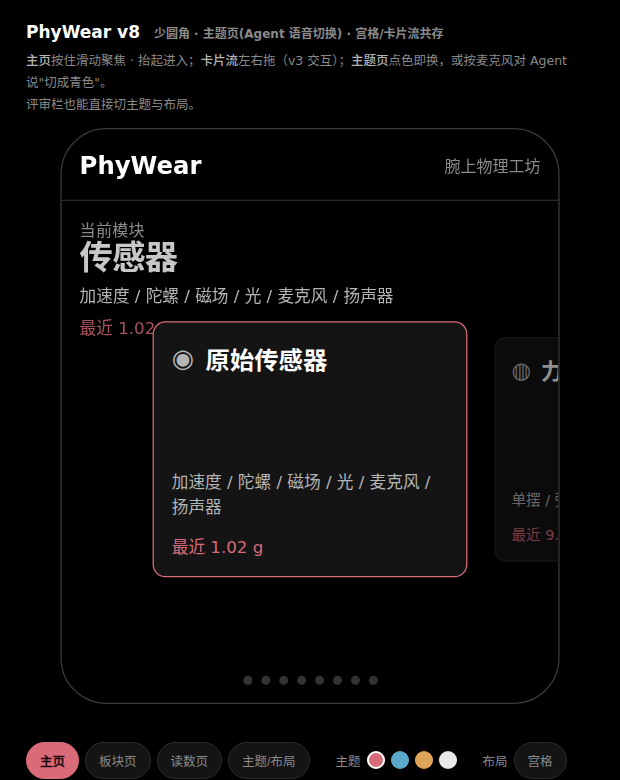
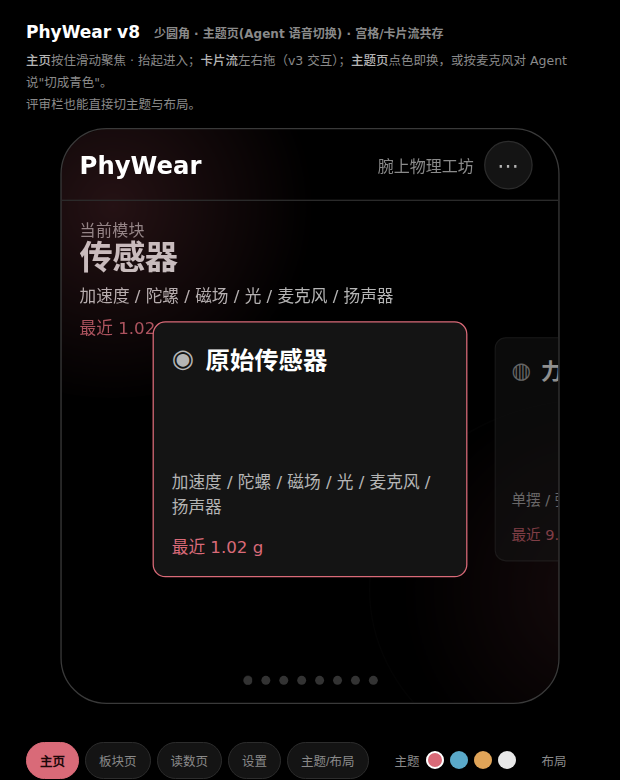
design(v8.3): 搬回 v3 光流体（两团跟随模块漂移的强调色环境光，只动 transform/opacity）+ 记上板落法（预渲染光斑位图）

Changed region(s): [[0.0919, 0.1538, 0.3065, 0.3692], [0.3984, 0.9538, 0.9194, 0.9846], [0.6129, 0.1846, 0.8581, 0.2462]]

diff --git a/docs/design/phywear-v8-prototype.html b/docs/design/phywear-v8-prototype.html
@@ -52,6 +52,16 @@
   .wash{position:absolute;inset:0;background:var(--accent);opacity:0;pointer-events:none;z-index:40;
         transition:opacity .45s ease-out}
 
+  /* 光流体：两团跟随"当前模块位置"漂移的强调色环境光（v3 的效果搬回来）
+     规矩：只用当前主题的单一强调色 · 透明度 ≤ .18 · 只动 transform/opacity · 由交互/数据驱动（不循环） */
+  .glow{position:absolute;inset:0;z-index:1;pointer-events:none;overflow:hidden}
+  .glow i{position:absolute;left:0;top:0;width:360px;height:300px;border-radius:50%;
+          background:radial-gradient(circle at 50% 50%, var(--accent), transparent 68%);
+          will-change:transform,opacity;
+          transition:transform .6s cubic-bezier(.22,1,.36,1),opacity .6s,background .6s}
+  .glow i.a{opacity:.17}
+  .glow i.b{opacity:.10}
+
   .bar{height:56px;display:flex;align-items:center;padding:0 20px 0 14px;   /* 右侧 20px：时间/⋯/版本号左移一点点 */position:relative;z-index:6;
        border-bottom:1px solid var(--line);transition:border-color .6s}
   .bar .id{font-size:19px;font-weight:700}
@@ -177,6 +187,7 @@
   </div>
 
   <div class="watch" id="watch">
+    <div class="glow" id="glow"><i class="a" id="gA"></i><i class="b" id="gB"></i></div>
     <div class="wash" id="wash"></div>
 
     <!-- 主页（宫格 / 卡片流 两套共存） -->
@@ -345,6 +356,7 @@ function applyTheme(t,announce){
   if(w&&D){ w.style.transition='none'; w.style.opacity='.14';
     requestAnimationFrame(()=>{ w.style.transition='opacity .45s ease-out'; w.style.opacity='0'; }); }
   buildThemeList();
+  if(typeof updateGlow==='function') updateGlow(LAYOUT==='grid'?(focus+0.5)/8:Math.min(1,Math.max(0,fOffset/(252*7))));
   if(announce) toast('已切换为 '+THEMES.find(x=>x[0]===t)[1]+' 主题');
 }
 let toastT=null;
@@ -373,8 +385,17 @@ BOARDS.forEach((b,i)=>{
     setTimeout(()=>{ el.style.transition='transform .3s cubic-bezier(.22,1,.36,1),opacity .3s';
       el.style.opacity='1'; el.style.transform='translateY(0) scale(1)'; }, 40+i*32); }
 });
+function updateGlow(t){            /* t: 0..1 表示"当前模块在 8 个里的位置" */
+  const A=$('#gA'), B=$('#gB'); if(!A||!B) return;
+  const ax = -140 + t*430,  ay = -90 + Math.sin(t*Math.PI)*70;
+  const bx =  240 - t*380,  by =  210 - Math.sin(t*Math.PI)*80;
+  A.style.transform=`translate(${ax}px,${ay}px)`;
+  B.style.transform=`translate(${bx}px,${by}px)`;
+  if(!D) return;                                  /* reduced-motion / 静态：只给位置，不做呼吸 */
+}
 function renderHome(){
   const body=BOARDS[focus];
+  updateGlow(LAYOUT==='grid' ? (focus+0.5)/8 : Math.min(1,Math.max(0,fOffset/(252*7))));
   $('#fName').textContent=body.s; $('#fDesc').textContent=body.d; $('#fVal').textContent='最近 '+body.val;
   ['#fName','#fVal'].forEach(s=>{const e=$(s); e.classList.remove('d1'); void e.offsetWidth; e.classList.add('d1');});
   if(LAYOUT==='grid'){

diff --git a/CLAUDE.md b/CLAUDE.md
@@ -54,7 +54,7 @@
 | **v6：完全否决 v5.1 后重做 + 四色版本（2026-09-17）** | 用户否决 v5.1 两条：① 满屏绿色小波形=无意义抽象装饰；② 不要绿色曲线配色，**整版否决**。v6 改：**删掉所有装饰性波形**（模块格改为显示该模块**最近一次测量值**：1.02 g / 9.79 m/s² / −42 dB / 21.4° / 00:12.4…），**绿色整体移除**，给出 4 套非绿强调色（琥珀 `#E0A458` 默认 / 青 `#5AA9C9` / 玫瑰 `#D96A78` / 单色 `#E8E8E8`，均满足 §4.2 单一强调色且饱和度<80%）。按用户要求**每色各出一个锁定版本**：`docs/design/phywear-v6-{amber,cyan,rose,mono}.html`（每份锁一色、无切换器）+ 八张静图 `v6-<色>-0{1,2}-*.png`；同一份还支持 `?acc=` 与 `?still=1#cat`。保留 v5 已认可部分（OLED 纯黑/大字号/圆润卡/每屏一焦点）与三条非循环动效（按压回弹+涟漪、入场错峰、D1 数值脉冲）。**仍未上板** —— 等用户挑定颜色后先做主屏 + 板块页真机验证。 |
 | **v7：去"条状"+ 玫瑰/青 双版本（2026-09-17）** | 用户定调"玫瑰和蓝色不错"，并指出**"条子状的最难看"**。v7 三处结构性修改：① 主页 8 个**宽短条 → 4 列 × 2 行方形应用格**（83×88、圆角 22，字形 + 短标签，聚焦格用强调色描边+着色）；② **分页小条 → 圆点**（激活点 scale 1.5，不再有"拉伸的条"）；③ 板块页裸条行 → **带 32px 图标块的列表项**。按用户偏好出两个锁定版本：`docs/design/phywear-v7-rose.html`（玫瑰 `#D96A78`）/ `phywear-v7-cyan.html`（青 `#5AA9C9`），图 `v7-{rose,cyan}-0{1,2}-*.png`；基础文件 `phywear-v7-prototype.html`（支持 `?acc=` / `?still=1#cat`）。绿色仍完全移除；模块格显示真实测量值；动效仍只保留非循环三条。**仍未上板**。 |
 | **v7.1：子页样式规范（2026-09-17）** | 用户指出"只改主页，不改主页里面的子页"。查明：v7 只铺了主页/板块页/原始传感器读数页 3 屏，App 其余 30+ 子页未改。故先把子页收敛为 **4 种页型**并各出一屏规范（玫瑰色）：① 实验读数页（大数字+单位列+曲线+步进器+芯片+主次按钮，例：单摆 g）② 参数操作页（大计数+阈值步进+曲线+主/次按钮，例：磁性标尺）③ 向导标定页（步骤圆点+大字指令+进度条+双按钮，例：六面法标定）④ 设置列表页（图标块行+右侧当前值）。文件 `docs/design/phywear-v71-subpages-spec.html`，图 `v71-00-subpages-spec.png`。其余页面按页型套用，不再逐页重设计。**仍未上板**。 |
-| **v8：少圆角 + 主题页(Agent 语音) + 双交互共存（2026-09-17）** | 用户三条：①"怎么这么多圆角矩形"（并引 SKILL：高级感+性能要少圆角）② 新增**主题页**可切换，且切换作为 **AI Agent 的主动功能**：**渐变**切换 + **语音**切换 ③ **v3 卡片流交互与当前宫格共存**。v8 做法：① 依据 taste-skill §4.4（cards 只在表达层级时用，否则 `border-t`/`divide-y` 分组）+「VISUAL_DENSITY>7 禁泛用卡片容器」+ 本队 `stacks/lvgl.csv`「EPIC 只对 radius=0 直通」，定**三级圆角尺度**：内容容器 **0**（主页/板块/读数/主题页改用 1px 细线分组）、格子 **10**、交互 **999**；每屏圆角矩形从 6~10 个降到 3~4 个；② 新增**主题与布局页**：4 主题（玫瑰/青/琥珀/单色）+ 主页布局切换 + Agent 语音入口；切换走 CSS 变量 + 全局 `transition .6s` + 强调色"洗色"遮罩（只动 opacity，符合 §6.A）；麦克风按钮模拟"聆听→识别→渐变切换 + 提示条"；③ 主页**双布局共存**：宫格（v7）与**卡片流（v3：横向拖动+中心聚焦+磁吸+共享元素）**，页内与评审栏均可切。文件 `docs/design/phywear-v8-prototype.html`（支持 `?t=rose|cyan|amber|mono`、`?lay=grid|flow`、`?still=1#theme`），图 `v8-0{1,2,3,4}-*.png`。**补**：用户发现「网页里看不到设置入口」——查明 v8 主页顶栏丢了设备原有的「⋯」入口，主题页只能靠评审栏/URL 进。已补 **主页右上 ⋯ → 设置列表页**（第 4 种页型：主题与布局 / 语言 / 屏幕常亮 / 数据导出 / 采样率 / 关于，细线分组 + 图标块），再由「主题与布局」进主题页；并补 `#set` 路由。**再补**：用户要求启动后显示的**时间（如 1:11）往左挪一点点** —— 原型顶栏右侧内边距 14→20px（时间/⋯/版本号一起左移 6px，加 tabular-nums 防抖动）；上板对应改动：设备 `pw_topbar()` 里计时标签的 `LV_ALIGN_RIGHT_MID, -18` 改为 **-24**。已知未做：主题页内容超过一屏（真机需滚动容器，或将主题行压到 46px）。**仍未上板**。 |
+| **v8：少圆角 + 主题页(Agent 语音) + 双交互共存（2026-09-17）** | 用户三条：①"怎么这么多圆角矩形"（并引 SKILL：高级感+性能要少圆角）② 新增**主题页**可切换，且切换作为 **AI Agent 的主动功能**：**渐变**切换 + **语音**切换 ③ **v3 卡片流交互与当前宫格共存**。v8 做法：① 依据 taste-skill §4.4（cards 只在表达层级时用，否则 `border-t`/`divide-y` 分组）+「VISUAL_DENSITY>7 禁泛用卡片容器」+ 本队 `stacks/lvgl.csv`「EPIC 只对 radius=0 直通」，定**三级圆角尺度**：内容容器 **0**（主页/板块/读数/主题页改用 1px 细线分组）、格子 **10**、交互 **999**；每屏圆角矩形从 6~10 个降到 3~4 个；② 新增**主题与布局页**：4 主题（玫瑰/青/琥珀/单色）+ 主页布局切换 + Agent 语音入口；切换走 CSS 变量 + 全局 `transition .6s` + 强调色"洗色"遮罩（只动 opacity，符合 §6.A）；麦克风按钮模拟"聆听→识别→渐变切换 + 提示条"；③ 主页**双布局共存**：宫格（v7）与**卡片流（v3：横向拖动+中心聚焦+磁吸+共享元素）**，页内与评审栏均可切。文件 `docs/design/phywear-v8-prototype.html`（支持 `?t=rose|cyan|amber|mono`、`?lay=grid|flow`、`?still=1#theme`），图 `v8-0{1,2,3,4}-*.png`。**补**：用户发现「网页里看不到设置入口」——查明 v8 主页顶栏丢了设备原有的「⋯」入口，主题页只能靠评审栏/URL 进。已补 **主页右上 ⋯ → 设置列表页**（第 4 种页型：主题与布局 / 语言 / 屏幕常亮 / 数据导出 / 采样率 / 关于，细线分组 + 图标块），再由「主题与布局」进主题页；并补 `#set` 路由。**再补**：用户要求启动后显示的**时间（如 1:11）往左挪一点点** —— 原型顶栏右侧内边距 14→20px（时间/⋯/版本号一起左移 6px，加 tabular-nums 防抖动）；上板对应改动：设备 `pw_topbar()` 里计时标签的 `LV_ALIGN_RIGHT_MID, -18` 改为 **-24**。**再补（光流体）**：用户认为 v3 的"背景流体/光流体"观感更美，要求搬回。已加 `.glow` 层：**两团跟随"当前模块位置"漂移的强调色环境光**（radial-gradient，透明度 .17/.10，只动 transform/opacity，交互驱动不循环，颜色随主题渐变换色）。**上板落法（重要）**：EPIC 不支持 radial-gradient（只认 2 段线性/水平/垂直 + radius 0），故设备上要改成"**预渲染一张小尺寸径向光斑位图**（如 96×96 RGB565，放 PSRAM）+ 缩放/位移/透明度动画"——即 `lv_image` 缩放 + `translate` + `pulse_opa`，属 EPIC 友好的 image 绘制路径，成本一次 blit；不新增 SRAM（缓冲区走 PSRAM）。已知未做：主题页内容超过一屏（真机需滚动容器，或将主题行压到 46px）。**仍未上板**。 |
 | 回退点 | `~/桌面/PhyWear-rollback-20260915-0002/`（含改动前固件 `484b64ca…`，本批真机 A/B 用的就是它；`rollback.sh --check`） |
 | 迁移包 | `~/桌面/PhyWear-migrate-20260914.zip` |
 
